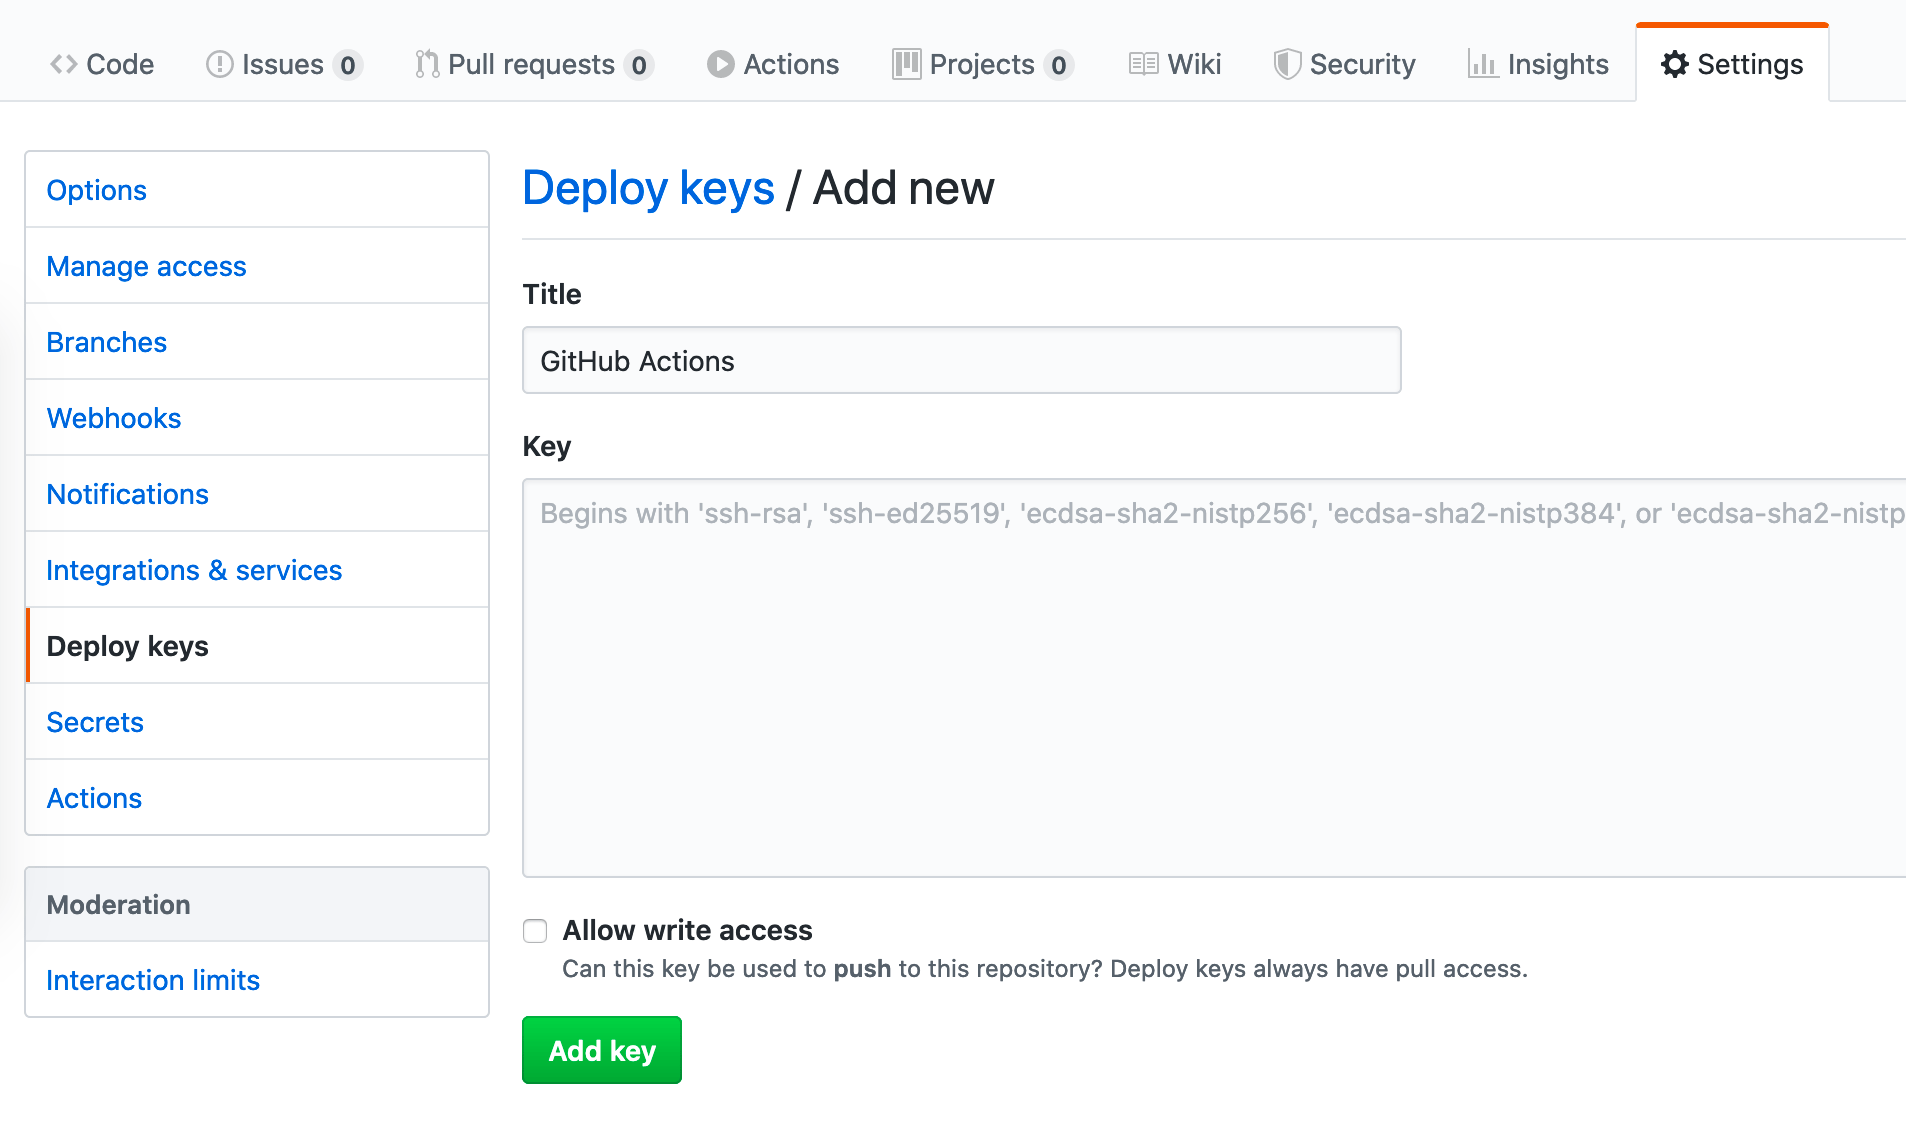
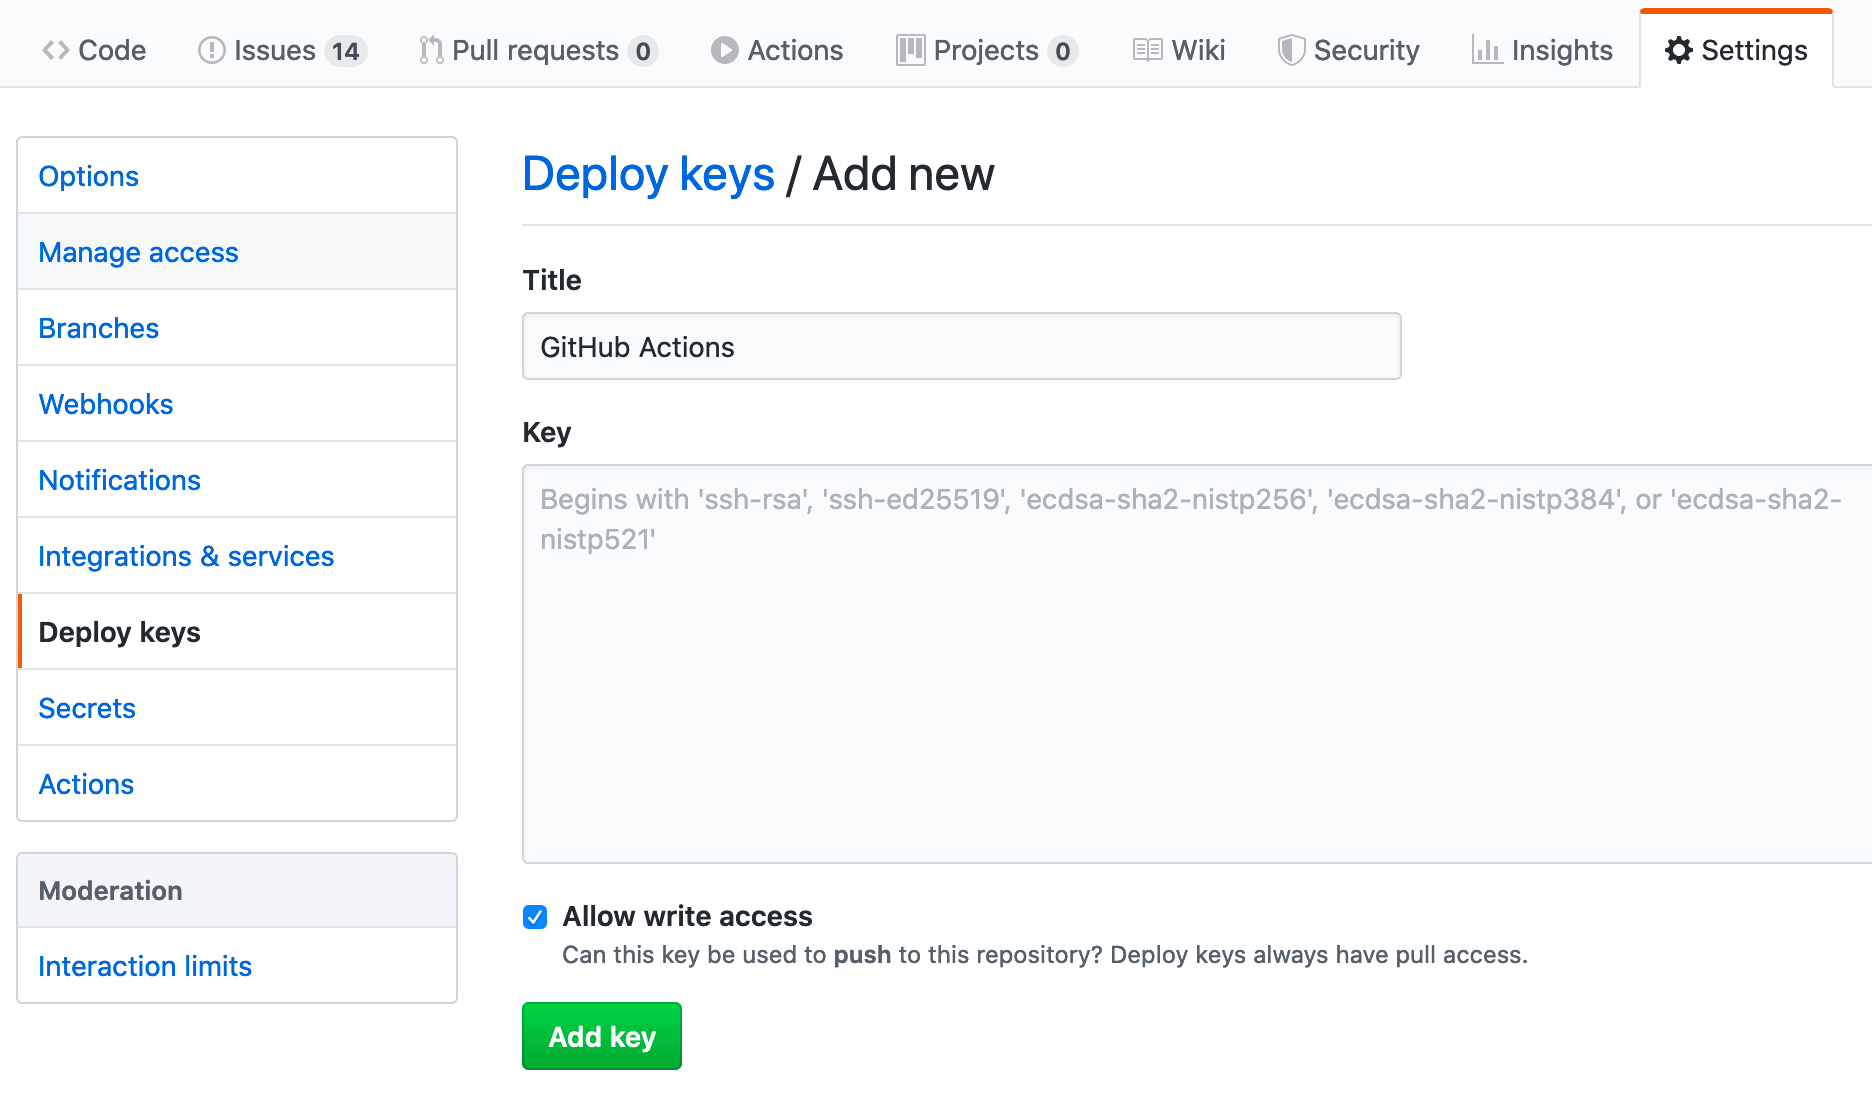
Document that deploy key should have write access

diff --git a/docs/github_pages_auto_deploy.md b/docs/github_pages_auto_deploy.md
@@ -12,7 +12,7 @@ Follow the following steps to enable it:
 2. In GitHub navigate to the repository settings and create a secret named `DEPLOY_KEY`.
    As value, use the contents of the `deploy-key` file generated in step 1.
    ![repo-settings](../.github/screenshots/deploy-setup-repo-settings.png)
-3. In GitHub add a deploy key:
+3. In GitHub add a deploy key (make sure to `Allow write access`!):
    ![deploy-key](../.github/screenshots/deploy-setup-deploy-keys.png)
    As value, use the contents of the `deploy-key.pub` file created in step 1.
 4. Edit `.github/workflows/ci.yml` to enable the deploy step for commits on the `master` branch:
